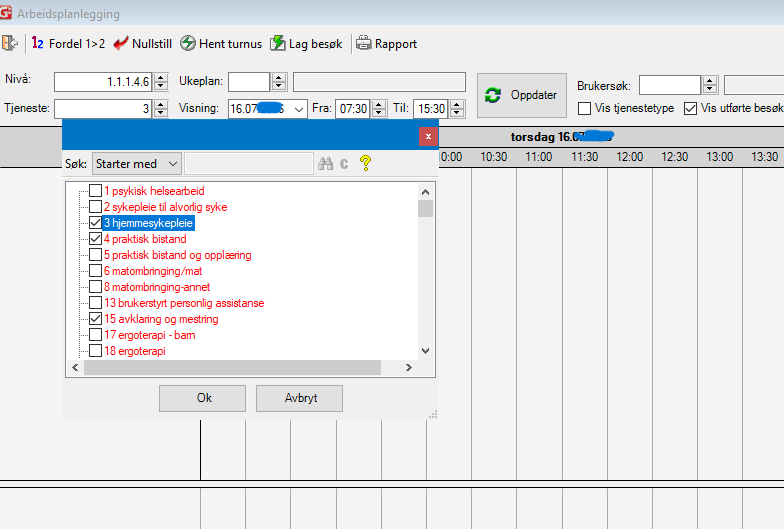
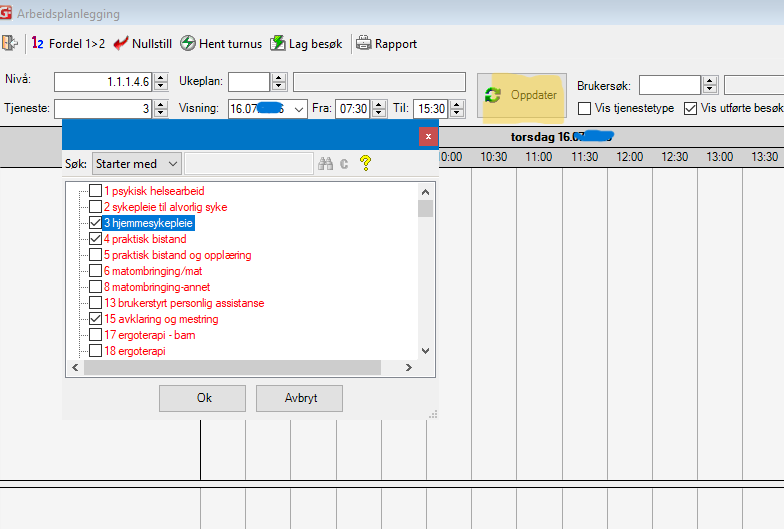
v137

Changed region(s): [[0.6122, 0.121, 0.7347, 0.242]]

diff --git a/arbeidsliste.html b/arbeidsliste.html
@@ -258,20 +258,23 @@
    <i class="fas fa-chevron-down icon"></i>
   </button>
   <div class= "answer">
-      <li>➡ </li>
-      <li>➡ </li>
-      <li>➡ </li>
-      <li>➡ </li>
-      <li>➡ </li>
-      <li>➡ </li>
-      <li>➡ </li>
-      <li>➡ </li>
-     <img src="bilder/arbeidslite/liste4.png" >
-     <li>arbeidsplanlegging</li>
-     <img src="bilder/arbeidslite/liste11.png" >
-     <img src="bilder/arbeidslite/liste3.png" >
-     <img src="bilder/arbeidslite/liste19.png" >
-     <img src="bilder/arbeidslite/liste20.png" >
+      <p>➡ Klikk på aktivitet</p>
+      <img src="bilder/arbeidslite/liste4.png" >
+      <p>➡ Klikk på arbeidsplanlegging og da kommer du til denne siden:</p>
+       <img src="bilder/arbeidslite/liste11.png" >
+      <p>➡ Høreklikk i feltet tjeneste og velg tjenestene :hjemmesykepleie, praktisk bistand og avklaring og mestring-> klikk på oppdater</p>
+       <img src="bilder/arbeidslite/liste16.png" >
+      <p>➡ For å lage besøk bare for kvelden, klikk i boksen der det står hele dagen og skriv tiden for kveldsvakten: fra 15 til 22</p>
+      <img src="bilder/arbeidslite/liste19.png" > 
+      <img src="bilder/arbeidslite/generere1.png" >
+       
+      <p>➡ Klikk på start og da blir listene for kvelden generert</p>
+      <p>➡ Klikk på fordel</p>
+      <p>➡ Alle besøk som er blitt generert og ligger nederst på siden kommer opp</p>
+      <p>➡ Nå må du rydde listene med hensyn til avstand mellom adressene og oppgaver</p>
+      <img src="bilder/arbeidslite/generere2.png" >
+      <p>➡ </p>
+    
   </div>
  </div>
 

diff --git a/sw.js b/sw.js
@@ -10,7 +10,7 @@
 // CACHE
 // ==================================================
 
-const CACHE_NAME = "team-sor-136";
+const CACHE_NAME = "team-sor-137";
 
 const FILES = [
     "./",
